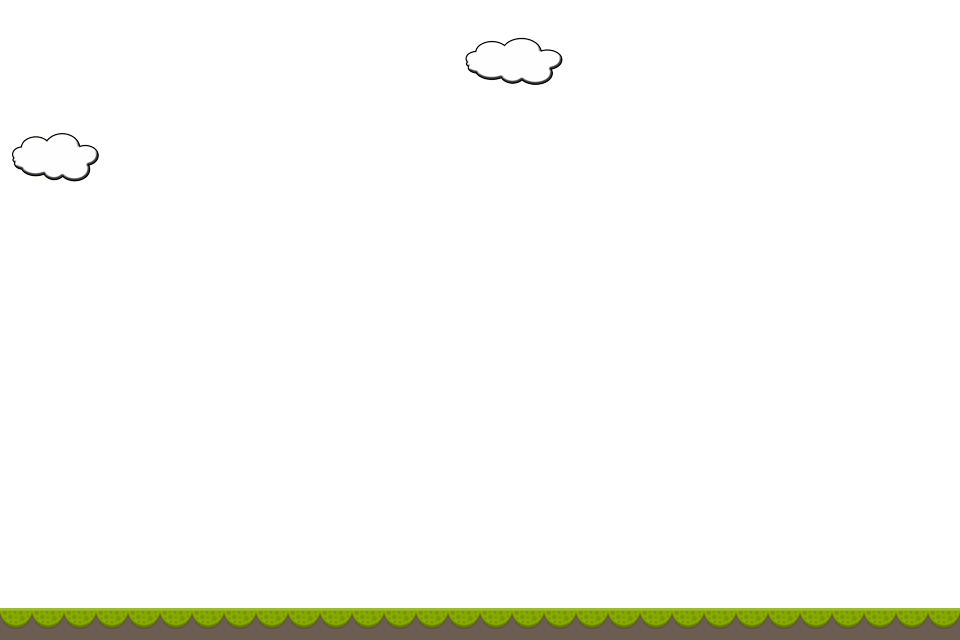
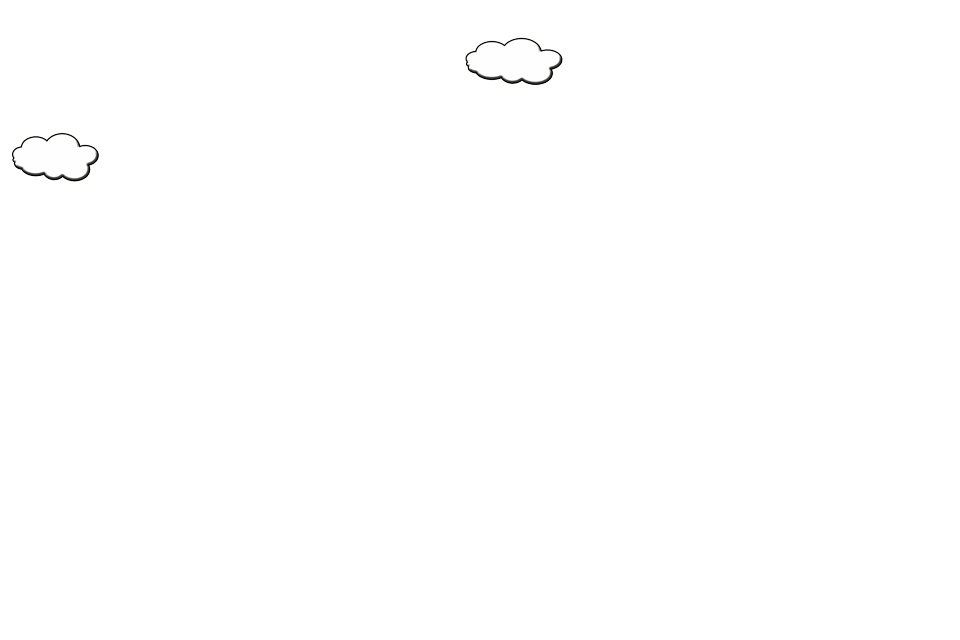
Adding floor to parallax

Changed region(s): [[0.0, 0.9375, 1.0, 1.0]]

diff --git a/Classes/Parallax.cpp b/Classes/Parallax.cpp
@@ -1,5 +1,6 @@
 #include "Parallax.h"
 #include "Definitions.h"
+#include "WorldManager.h"
 
 USING_NS_CC;
 
@@ -12,9 +13,9 @@ bool Parallax::init()
 	return true;
 }
 
-bool Parallax::addBackground(const std::string& filename1, const std::string& filename2, const std::string& filename3, const std::string& filename4)
+bool Parallax::addBackground(const std::string& filename1, const std::string& filename2, const std::string& filename3, const std::string& filename4, const std::string& filename5)
 {
-	// background 1 - Clouds and Floor moving
+	// background 1 - Clouds
 	m_pSpriteBackgroundFirst = CCSprite::create(filename1);
 	m_pSpriteBackgroundFirst1 = CCSprite::create(filename1);
 	m_pSpriteBackgroundFirst->setPosition(Vec2(VISIBLE_SIZE_WIDTH / 2, VISIBLE_SIZE_HEIGHT / 2));
@@ -42,11 +43,27 @@ bool Parallax::addBackground(const std::string& filename1, const std::string& fi
 	m_pSpriteBackgroundFourth = CCSprite::create(filename4);
 	m_pSpriteBackgroundFourth1 = CCSprite::create(filename4);
 	m_pSpriteBackgroundFourth->setPosition(Vec2(VISIBLE_SIZE_WIDTH / 2, VISIBLE_SIZE_HEIGHT / 2));
-	m_pSpriteBackgroundFourth1->setPosition(Vec2(VISIBLE_SIZE_WIDTH - 1 + VISIBLE_SIZE_WIDTH / 2, VISIBLE_SIZE_HEIGHT / 2));
+	m_pSpriteBackgroundFourth1->setPosition(Vec2(VISIBLE_SIZE_WIDTH + VISIBLE_SIZE_WIDTH / 2, VISIBLE_SIZE_HEIGHT / 2));
 	this->addChild(m_pSpriteBackgroundFourth, 1);
 	this->addChild(m_pSpriteBackgroundFourth1, 1);
 
-	
+	// background 5 - floor
+	m_pSpriteFloor1 = Sprite::create(filename5);
+	m_pSpriteFloor2 = Sprite::create(filename5);
+	m_pSpriteFloor1->setPosition(Vec2(VISIBLE_SIZE_WIDTH / 2, m_pSpriteFloor1->getContentSize().height / 2));
+	m_pSpriteFloor2->setPosition(Vec2(VISIBLE_SIZE_WIDTH + VISIBLE_SIZE_WIDTH / 2, m_pSpriteFloor2->getContentSize().height / 2));
+	this->addChild(m_pSpriteFloor1, 4);
+	this->addChild(m_pSpriteFloor2, 4);
+		
+	auto floorRect = Sprite::create(filename5);
+	floorRect->setPosition(Vec2(VISIBLE_SIZE_WIDTH / 2, m_pSpriteFloor1->getContentSize().height / 2));
+	this->addChild(floorRect);
+	auto floorEdgeBody = PhysicsBody::createEdgeBox(floorRect->getContentSize(), PHYSICSBODY_MATERIAL_DEFAULT, 1);
+	floorRect->setPhysicsBody(floorEdgeBody);
+	floorRect->getPhysicsBody()->setDynamic(false);
+	this->addChild(floorRect, -2);
+	WorldManager::getInstance()->setFloorSprite(floorRect);
+
 	return true;	
 }
 
@@ -54,6 +71,7 @@ void Parallax::update()
 {
 	m_fSpeed = 5.0f;
 	
+	scrollBackground(m_pSpriteFloor1, m_pSpriteFloor2, m_fSpeed);
 	scrollBackground(m_pSpriteBackgroundFirst, m_pSpriteBackgroundFirst1, m_fSpeed);
 	scrollBackground(m_pSpriteBackgroundSecond, m_pSpriteBackgroundSecond1, (m_fSpeed / 2));	
 	scrollBackground(m_pSpriteBackgroundThird, m_pSpriteBackgroundThird1, ((m_fSpeed / 3) - 0.4));

diff --git a/Classes/GameScene.cpp b/Classes/GameScene.cpp
@@ -56,22 +56,12 @@ bool GameScene::initializeGame()
 	m_pParallax = Parallax::create();
 	gamePlayLayer->addChild(m_pParallax, -1, "parallax");
 
-	m_pParallax->addBackground("background/backgroundFirst.png", "background/backgroundSecond.png", "background/backgroundThird.png", "background/backgroundFourth.png");
+	m_pParallax->addBackground("background/backgroundFirst.png", "background/backgroundSecond.png", "background/backgroundThird.png", "background/backgroundFourth.png", "background/floorBoundaries.png");
 	
-	// CHANGE FLOOR SPRITE TO RECT FOR THE PLAYER POSITION
-	auto floorSprite = Sprite::create("background/floorBoundaries.png");
-	floorSprite->setPosition(Vec2(visibleSize.width / 2 + origin.x, floorSprite->getContentSize().height / 2 + origin.y));
-	auto floorEdgeBody = PhysicsBody::createEdgeBox(floorSprite->getContentSize(), PHYSICSBODY_MATERIAL_DEFAULT, 1);
-	floorSprite->setPhysicsBody(floorEdgeBody);
-	floorSprite->getPhysicsBody()->setDynamic(false);
-	gamePlayLayer->addChild(floorSprite, -2);
-	WorldManager::getInstance()->setFloorSprite(floorSprite);
-
 	//Player
 	Player* playerSprite = Player::create("sprites/Playersmall.png");
 	gamePlayLayer->addChild(playerSprite, 0);
-
-
+	
 	// Spawn manager
 	m_pSpawnManager = SpawnManager::create();
 	gamePlayLayer->addChild(m_pSpawnManager, 0);

diff --git a/Classes/Parallax.h b/Classes/Parallax.h
@@ -22,6 +22,10 @@ class Parallax : public cocos2d::LayerColor
 		Sprite* m_pSpriteBackgroundThird1;
 		Sprite* m_pSpriteBackgroundFourth;
 		Sprite* m_pSpriteBackgroundFourth1;
+		Sprite* m_pSpriteFloor1;
+		Sprite* m_pSpriteFloor2;
+
+
 
 		//Initialize the parent node
 		//Call the super class theen I can create my .create() from the super class of Layer
@@ -31,7 +35,7 @@ class Parallax : public cocos2d::LayerColor
 		virtual bool init();
 
 		//Add a background to the parallax layer		
-		bool addBackground(const std::string& filename1, const std::string& filename2, const std::string& filename3, const std::string& filename4);
+		bool addBackground(const std::string& filename1, const std::string& filename2, const std::string& filename3, const std::string& filename4, const std::string& filename5);
 		
 		// Call the scroll function passing the background images
 		void update();
